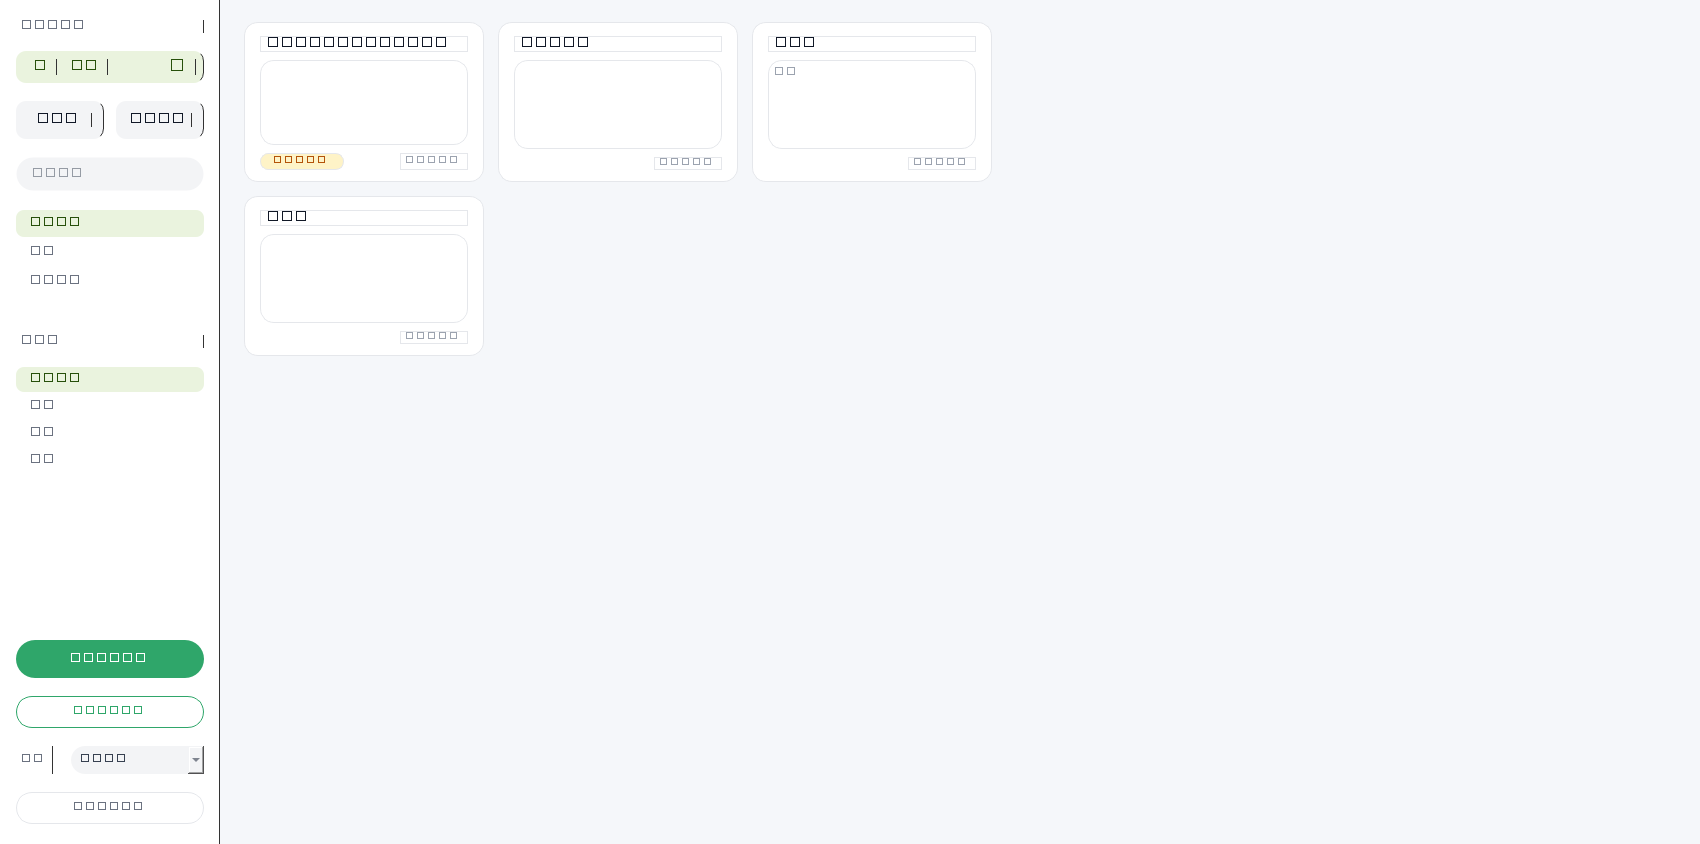
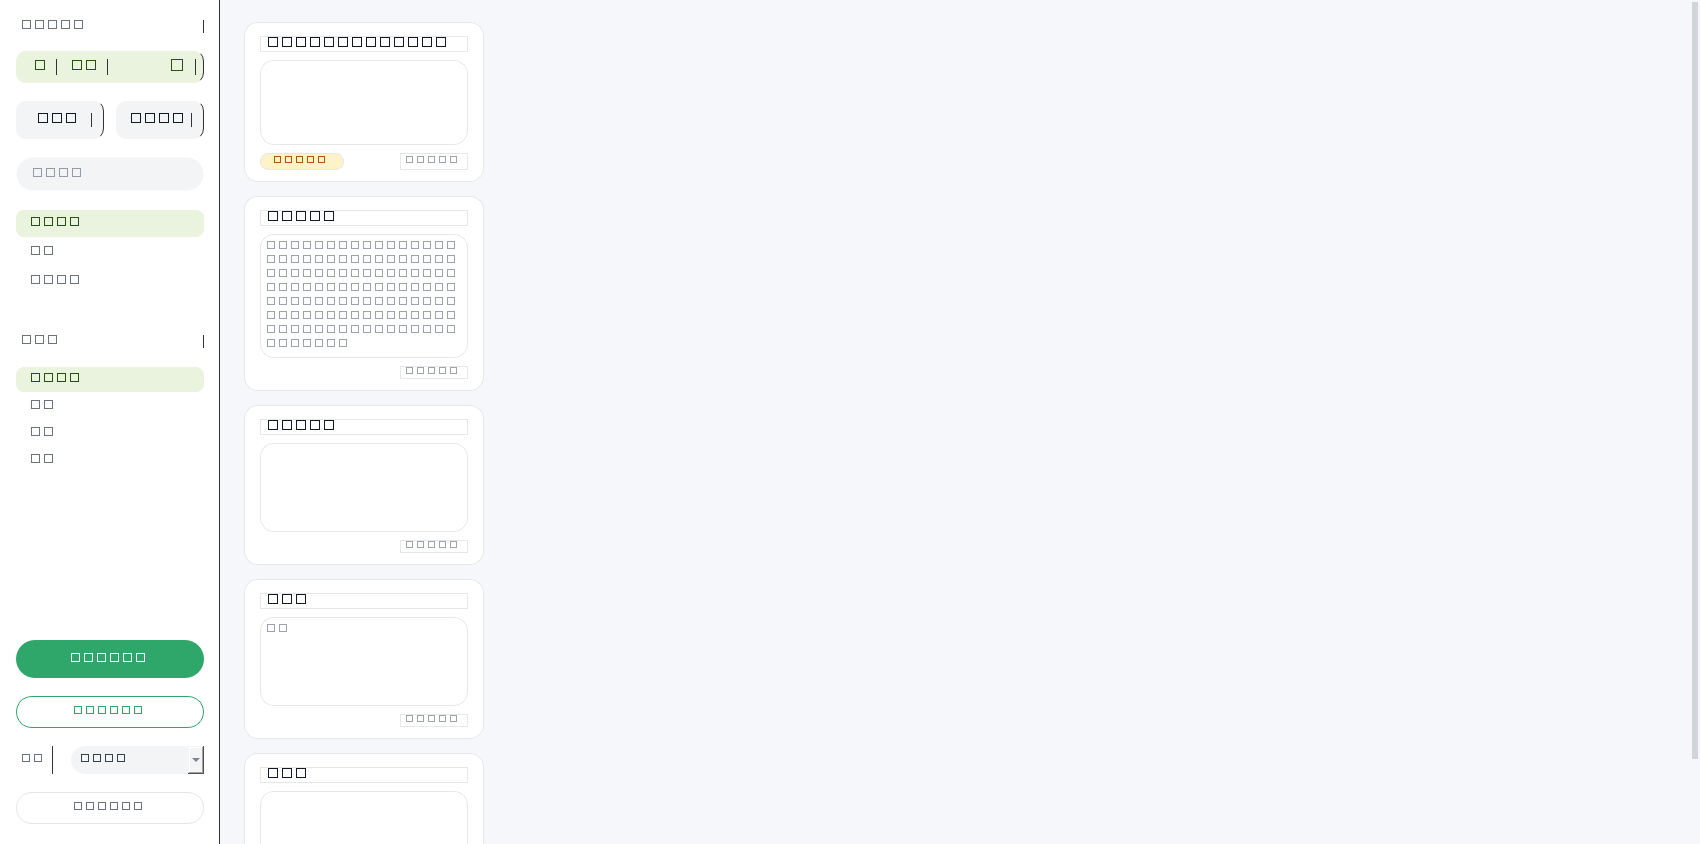
feat(ui): ZCode 风格切换侧边栏（Ctrl+8）

Changed region(s): [[0.9976, 0.0, 1.0, 0.8934], [0.1559, 0.2773, 0.2806, 0.4313], [0.3118, 0.0308, 0.3429, 0.0616]]

diff --git a/PureRefCanvas/mainwindow.cpp b/PureRefCanvas/mainwindow.cpp
@@ -538,6 +538,7 @@ private:
         addShortcut("切换到库", "Ctrl+3");
         addShortcut("切换到阅读", "Ctrl+4");
         addShortcut("切换到音乐", "Ctrl+5");
+addShortcut("切换侧边栏", "Ctrl+8");
 
         addHeader("画布操作");
         addShortcut("拖拽平移", "空格 + 拖拽 / 中键");
@@ -596,10 +597,15 @@ MainWindow::MainWindow(QWidget *parent)
     cmdSc->setContext(Qt::ApplicationShortcut);
     connect(cmdSc, &QShortcut::activated, this, &MainWindow::openCommandPalette);
 
-    // Shortcut panel shortcut (Ctrl+/)
-    QShortcut *scPanelSc = new QShortcut(QKeySequence("Ctrl+/"), this);
-    scPanelSc->setContext(Qt::ApplicationShortcut);
-    connect(scPanelSc, &QShortcut::activated, this, &MainWindow::openShortcutPanel);
+// Shortcut panel shortcut (Ctrl+/)
+QShortcut *scPanelSc = new QShortcut(QKeySequence("Ctrl+/"), this);
+scPanelSc->setContext(Qt::ApplicationShortcut);
+connect(scPanelSc, &QShortcut::activated, this, &MainWindow::openShortcutPanel);
+
+// Sidebar toggle (Ctrl+8) — folds/unfolds the current page's left panel
+QShortcut *sidebarSc = new QShortcut(QKeySequence("Ctrl+8"), this);
+sidebarSc->setContext(Qt::ApplicationShortcut);
+connect(sidebarSc, &QShortcut::activated, this, &MainWindow::toggleSidebar);
 
     applyTheme(m_currentTheme);
     applyFontSize(m_fontSize);
@@ -725,19 +731,26 @@ void MainWindow::setupNavigation()
         popup.exec(m_menuHamburger->mapToGlobal(QPoint(0, m_menuHamburger->height())));
     });
     brandLayout->addWidget(m_menuHamburger);
-    // App icon
-    QLabel *brandIcon = new QLabel;
-    brandIcon->setFixedSize(26, 26);
-    brandIcon->setScaledContents(true);
-    QPixmap iconPix = QIcon(":/app.ico").pixmap(26, 26);
+    // App icon — doubles as the sidebar toggle (ZCode-style: click the logo to
+    // fold/unfold the current page's left panel, or press Ctrl+8)
+    m_brandBtn = new QToolButton(brandWidget);
+    m_brandBtn->setFixedSize(26, 26);
+    m_brandBtn->setIconSize(QSize(24, 24));
+    m_brandBtn->setAutoRaise(true);
+    m_brandBtn->setCursor(Qt::PointingHandCursor);
+    m_brandBtn->setToolTip("切换侧边栏 (Ctrl+8)");
+    const QPixmap iconPix = QIcon(":/app.ico").pixmap(24, 24);
     if (!iconPix.isNull()) {
-        brandIcon->setPixmap(iconPix);
+        m_brandBtn->setIcon(QIcon(iconPix));
     } else {
-        brandIcon->setText("里");
-        brandIcon->setAlignment(Qt::AlignCenter);
-        brandIcon->setStyleSheet("background: #2FA66A; color: #FFFFFF; border-radius: 8px; font-size: 14px; font-weight: 500;");
+        m_brandBtn->setText("里");
+        m_brandBtn->setStyleSheet(
+            "QToolButton { background: #2FA66A; color: #FFFFFF; border: none; border-radius: 8px;"
+            " font-size: 14px; font-weight: 500; }"
+            "QToolButton:hover { background: #27945D; }");
     }
-    brandLayout->addWidget(brandIcon);
+    connect(m_brandBtn, &QToolButton::clicked, this, &MainWindow::toggleSidebar);
+    brandLayout->addWidget(m_brandBtn);
     // Brand name
     QLabel *brandName = new QLabel("里与由");
     brandName->setStyleSheet("color: #1F2933; font-size: 14px; font-weight: 500; letter-spacing: 1px;");
@@ -1010,6 +1023,31 @@ void MainWindow::setupPages()
     if (m_musicWidget) {
         m_musicWidget->setVolume(m_defaultVolume);
         m_musicWidget->setInitialPlayMode(m_defaultPlayMode);
+    }
+}
+
+// 折叠/展开当前页的左侧栏（ZCode 风格 Ctrl+8）：
+// 画布/库页折叠全局素材浏览器，笔记页折叠内容浏览器侧栏；阅读/音乐页布局
+// 不同（无独立左侧栏），按键不动作。
+void MainWindow::toggleSidebar()
+{
+    switch (currentPage()) {
+    case CanvasPage:
+    case MaterialPage:
+        if (m_contentBrowser) {
+            if (m_contentBrowser->isVisible())
+                m_contentBrowser->hide();
+            else
+                m_contentBrowser->show();
+        }
+        break;
+    case NotePage:
+        if (m_noteWidget)
+            m_noteWidget->toggleSidebar();
+        break;
+    case BookPage:
+    case MusicPage:
+        break;
     }
 }
 

diff --git a/_reader_test/mw_probe.cpp b/_reader_test/mw_probe.cpp
@@ -191,6 +191,18 @@ int main(int argc, char **argv)
                 if (b->text().contains(QStringLiteral("导出")))
                     printf("  button: %s\n", qPrintable(b->text())); fflush(stdout);
             }
+            // sidebar toggle (Ctrl+8): fold → unfold, width must come back
+            QWidget *sb = nw->findChild<QWidget *>(QStringLiteral("noteSidebar"));
+            if (sb) {
+                const bool before = sb->isVisible();
+                QMetaObject::invokeMethod(&w, "toggleSidebar");
+                for (int i = 0; i < 5; ++i) app.processEvents();
+                const bool folded = sb->isVisible();
+                QMetaObject::invokeMethod(&w, "toggleSidebar");
+                for (int i = 0; i < 5; ++i) app.processEvents();
+                printf("  sidebar toggle: before=%d folded=%d restored=%d\n",
+                       int(before), int(folded), int(sb->isVisible())); fflush(stdout);
+            }
         } else {
             printf("NoteWidget NOT FOUND\n"); fflush(stdout);
         }

diff --git a/_note_test/notetest.cpp b/_note_test/notetest.cpp
@@ -460,6 +460,21 @@ int main(int argc, char **argv)
         }
     }
 
+    // ---- Sidebar toggle (Ctrl+8 folds/unfolds the content browser) ----
+    {
+        QWidget *sb = w.findChild<QWidget *>("noteSidebar");
+        CHECK(sb != nullptr);
+        if (sb) {
+            const bool wasVisible = sb->isVisible();
+            invoke(&w, "toggleSidebar");
+            CHECK(sb->isVisible() != wasVisible);
+            invoke(&w, "toggleSidebar");
+            CHECK(sb->isVisible() == wasVisible);
+            // width restored to the pre-fold value
+            if (wasVisible) CHECK(sb->width() >= 200);
+        }
+    }
+
     // ---- Persistence: destructor saves; a fresh instance loads; JSON valid ----
     {
         invoke(&w, "newNote");

diff --git a/PureRefCanvas/notewidget.cpp b/PureRefCanvas/notewidget.cpp
@@ -2436,9 +2436,23 @@ void NoteWidget::setEditorBackground(const QString &path)
 void NoteWidget::hideSidebar()
 {
     if (m_sidebar) {
+        if (m_sidebar->isVisible() && m_sidebar->width() > 0)
+            m_sidebarWidth = m_sidebar->width();  // remember for toggleSidebar()
         m_sidebar->setMaximumWidth(0);
         m_sidebar->setMinimumWidth(0);
         m_sidebar->hide();    }
+}
+
+void NoteWidget::toggleSidebar()
+{
+    if (!m_sidebar) return;
+    if (m_sidebar->isVisible()) {
+        hideSidebar();
+    } else {
+        m_sidebar->setMinimumWidth(m_sidebarWidth);
+        m_sidebar->setMaximumWidth(m_sidebarWidth);
+        m_sidebar->show();
+    }
 }
 
 bool NoteWidget::eventFilter(QObject *obj, QEvent *event)

diff --git a/PureRefCanvas/notewidget.h b/PureRefCanvas/notewidget.h
@@ -84,6 +84,7 @@ public slots:
     void journalToday();  // Logseq-style: open/create today's daily note
     void openFindBar(bool withReplace = false);  // Word-style Ctrl+F / Ctrl+H
     void openOrCreateByTitle(const QString &title);  // [[wiki-link]] resolver
+    void toggleSidebar();  // 折叠/展开左侧内容浏览器（Ctrl+8）
 
 private slots:
     void onTextChanged();
@@ -244,6 +245,7 @@ private:
     QLabel *m_statusLabel;
 
     // Data
+    int m_sidebarWidth = 220;   // 侧栏折叠前宽度（toggleSidebar 恢复用）
     QString m_libraryRoot;
     QList<NoteData> m_notes;
     QStringList m_folders;          // 自定义文件夹（持久化）

diff --git a/PureRefCanvas/mainwindow.h b/PureRefCanvas/mainwindow.h
@@ -43,6 +43,7 @@ protected:
 
 private slots:
     void switchToPage(int index);
+    void toggleSidebar();  // 折叠/展开当前页的左侧栏（Ctrl+8，ZCode 风格）
 
     // File operations
     void openImages();
@@ -186,6 +187,7 @@ private:
     bool m_notePanelsTransparent = true;
     bool m_readerPanelsTransparent = true;
     QToolBar *m_navToolBar = nullptr;
+    QToolButton *m_brandBtn = nullptr;  // 应用图标按钮 = 切换侧边栏
     QToolButton *m_menuHamburger = nullptr;  // 半隐藏模式下的 ☰ 菜单按钮
     int m_minimapOpacity = 70;
     int m_zoomBarOpacity = 85;
